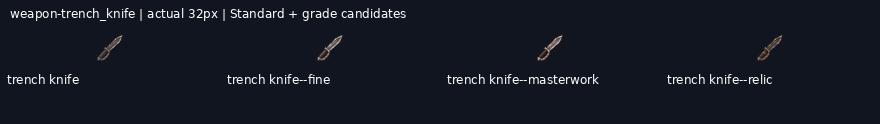
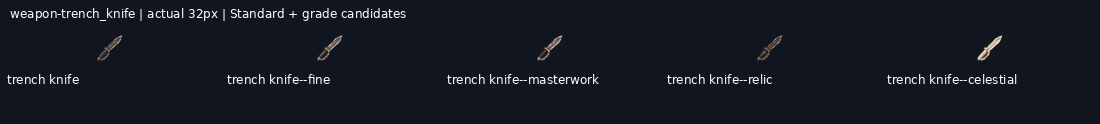
Deliver weapon-trench_knife--celestial review candidate

diff --git a/art/_archive/gear/2026-11-20-reset-continuation/HANDOFF.md b/art/_archive/gear/2026-11-20-reset-continuation/HANDOFF.md
@@ -1,13 +1,13 @@
 # Reset continuation progress
 
-Branch: `art/2026-11-20-reset-continuation`. New deliveries: 21/46.
+Branch: `art/2026-11-20-reset-continuation`. New deliveries: 22/46.
 
 Shared coordination: https://github.com/leonpentastorm/Project-Heaven-Cry/issues/3 . Read START-HERE.md before extending this queue.
 
 All new entries remain review-candidate; production_approved:false and implementation_ready:false. Exact-outline review remains pending.
 
-Ready jobs: weapon-trench_knife--celestial, weapon-lowland_chopper--fine, weapon-dock_cutter--fine, weapon-broadback_sabre--fine, weapon-legion_leaf_dagger--fine, weapon-legion_rank_sword--fine.
+Ready jobs: weapon-lowland_chopper--fine, weapon-dock_cutter--fine, weapon-broadback_sabre--fine, weapon-legion_leaf_dagger--fine, weapon-legion_rank_sword--fine.
 
-Pending jobs: weapon-hellraiser_rotary--celestial, weapon-purifier_flamer--masterwork, weapon-purifier_flamer--relic, weapon-purifier_flamer--celestial, weapon-trench_knife--celestial, weapon-lowland_chopper--fine, weapon-lowland_chopper--masterwork, weapon-lowland_chopper--relic, weapon-lowland_chopper--celestial, weapon-dock_cutter--fine, weapon-dock_cutter--masterwork, weapon-dock_cutter--relic, weapon-dock_cutter--celestial, weapon-broadback_sabre--fine, weapon-broadback_sabre--masterwork, weapon-broadback_sabre--relic, weapon-broadback_sabre--celestial, weapon-legion_leaf_dagger--fine, weapon-legion_leaf_dagger--masterwork, weapon-legion_leaf_dagger--relic, weapon-legion_leaf_dagger--celestial, weapon-legion_rank_sword--fine, weapon-legion_rank_sword--masterwork, weapon-legion_rank_sword--relic, weapon-legion_rank_sword--celestial.
+Pending jobs: weapon-hellraiser_rotary--celestial, weapon-purifier_flamer--masterwork, weapon-purifier_flamer--relic, weapon-purifier_flamer--celestial, weapon-lowland_chopper--fine, weapon-lowland_chopper--masterwork, weapon-lowland_chopper--relic, weapon-lowland_chopper--celestial, weapon-dock_cutter--fine, weapon-dock_cutter--masterwork, weapon-dock_cutter--relic, weapon-dock_cutter--celestial, weapon-broadback_sabre--fine, weapon-broadback_sabre--masterwork, weapon-broadback_sabre--relic, weapon-broadback_sabre--celestial, weapon-legion_leaf_dagger--fine, weapon-legion_leaf_dagger--masterwork, weapon-legion_leaf_dagger--relic, weapon-legion_leaf_dagger--celestial, weapon-legion_rank_sword--fine, weapon-legion_rank_sword--masterwork, weapon-legion_rank_sword--relic, weapon-legion_rank_sword--celestial.
 
 Quota state: null.
